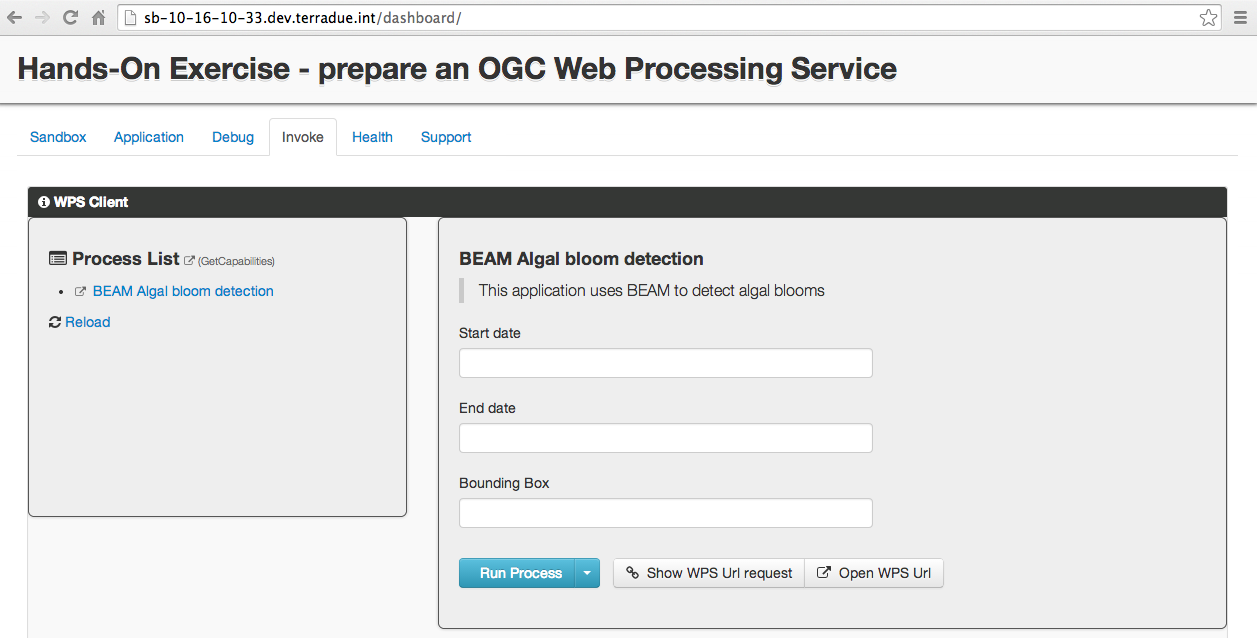
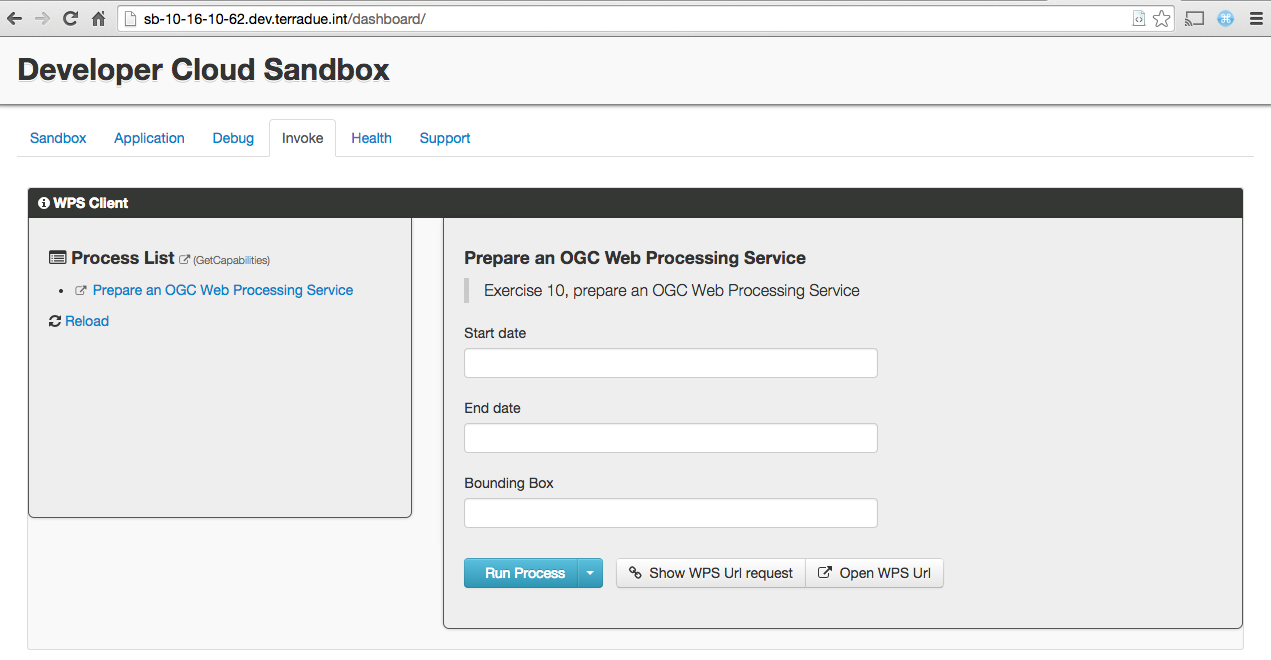
Changed images on Hands-On 10

diff --git a/source/developer/wps.rst b/source/developer/wps.rst
@@ -57,7 +57,7 @@ Trigger the WPS service
 
 * Click on the tab *Invoke*,
 
-* Click on the link *BEAM Algal bloom detection* under **Process List**,
+* Click on the link *Prepare an OGC Web Processing Service* under **Process List**,
 
 * Type in the field *Start date* the value *2012-04-06T10:24:29.000Z*,
 
@@ -88,10 +88,6 @@ The following images show the steps that we have just performed:
    :alt: WPS Service
 
 .. figure:: includes/wps/gui5.png
-   :scale: 80 %
-   :alt: WPS Service
-
-.. figure:: includes/wps/gui6.png
    :scale: 80 %
    :alt: WPS Service
 
